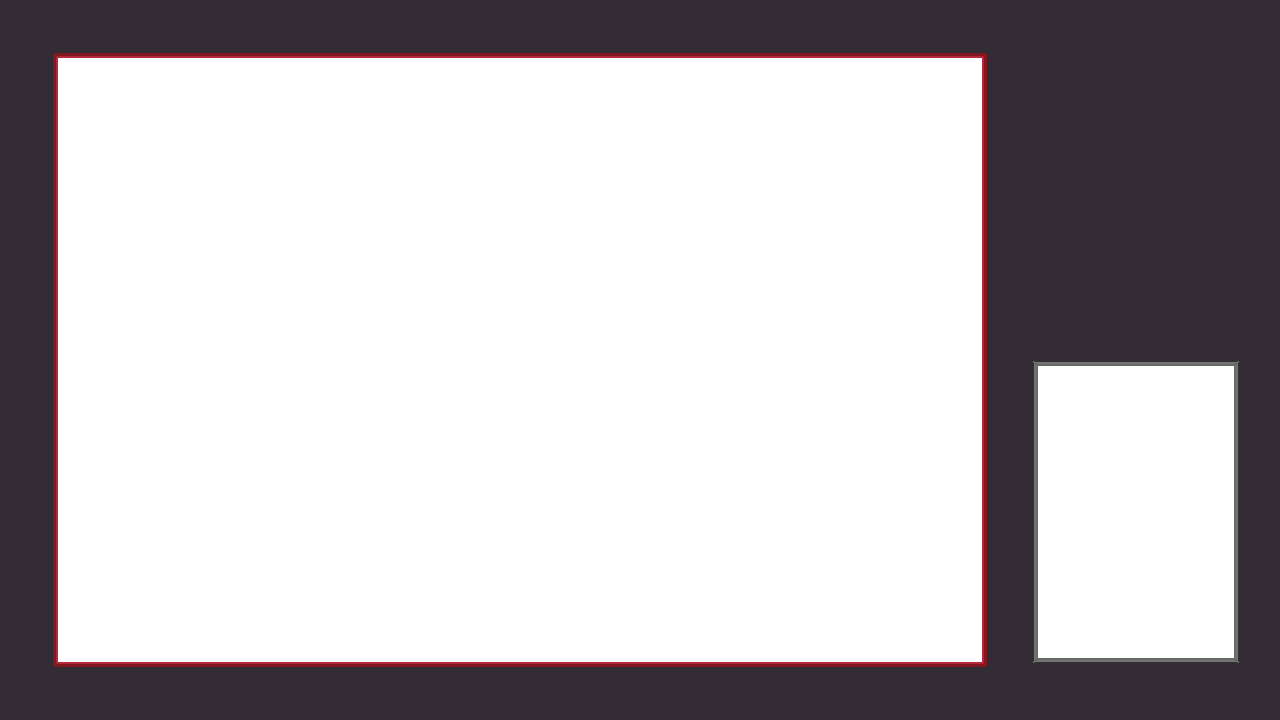
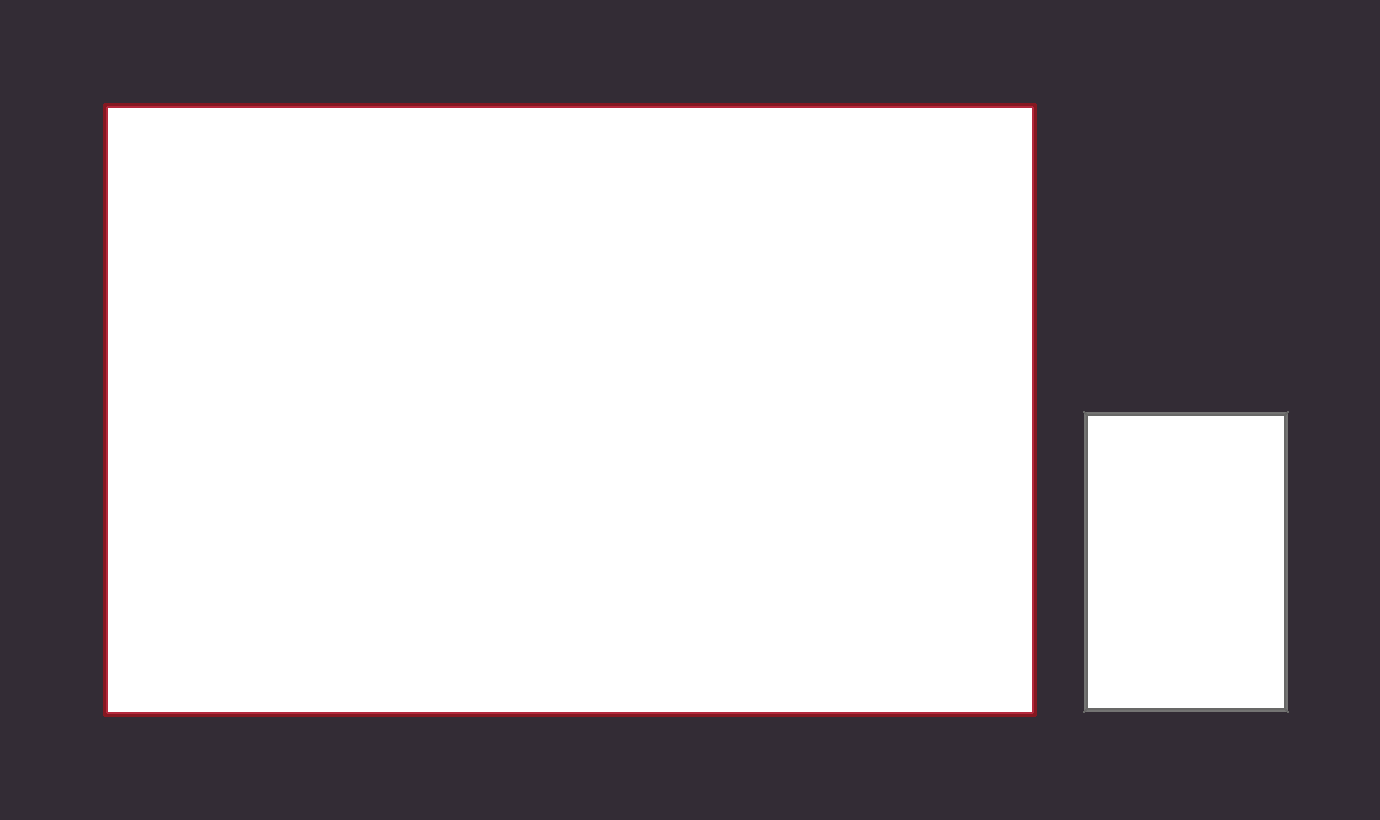
れざるとシーンのフレームを少し調整

Changed region(s): [[0.0312, 0.0611, 0.9688, 0.9472]]

diff --git a/Scene/ResultScene.cpp b/Scene/ResultScene.cpp
@@ -65,7 +65,7 @@ void ResultScene::Draw()
 
 	DrawGraph(1038, 366, resultKyaraFlameHandle, true);
 	DrawRotaGraph(1135, 515, 1.3f, 0.0f, resultKyaraHandle, true);
-	DrawGraph(0, 0, flameHandle, true);
+	DrawGraph(-50, -50, flameHandle, true);
 }
 
 bool ResultScene::GetChangeTitle()
